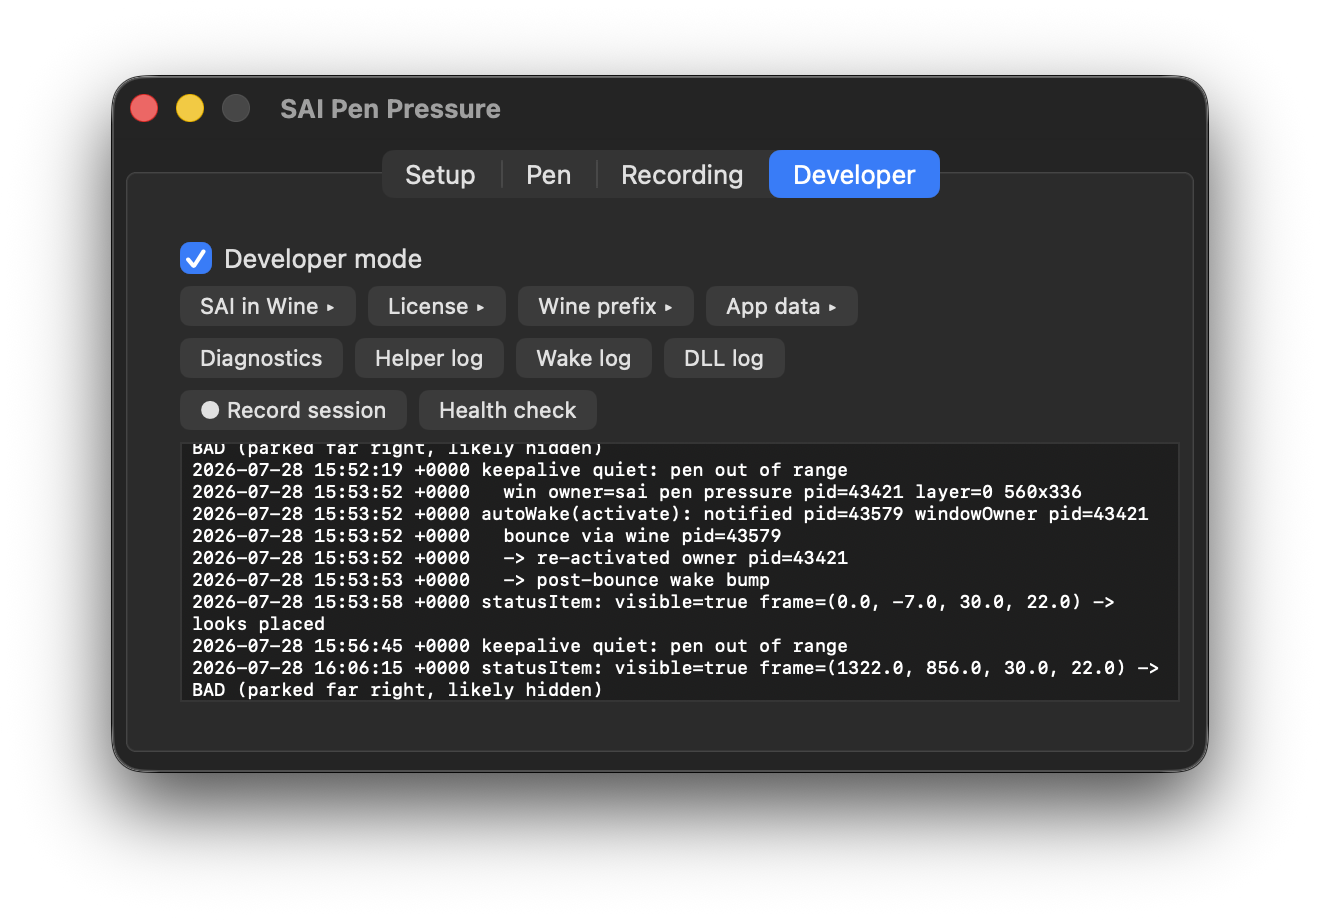
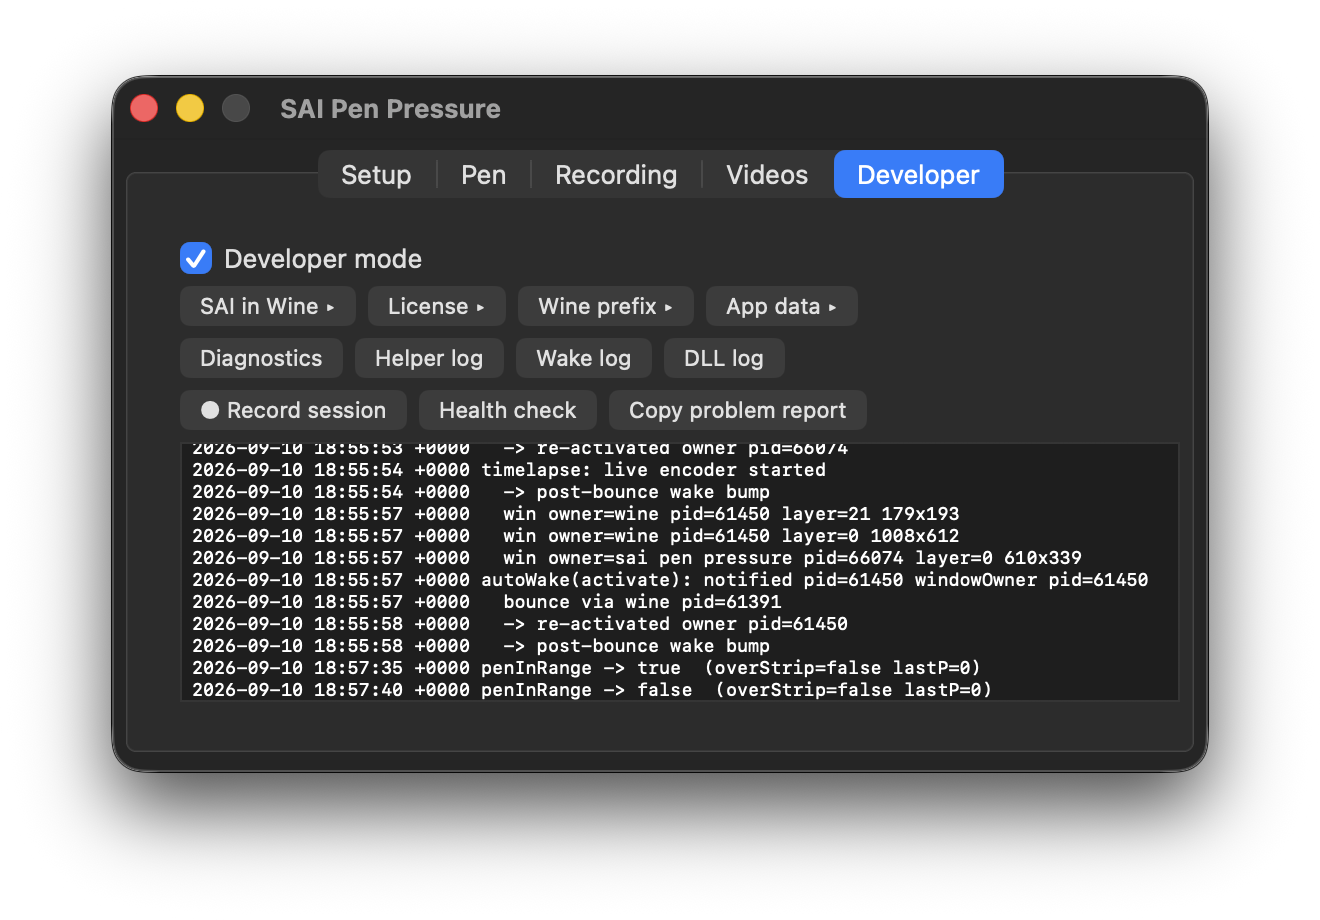
Refresh every screenshot, and admit there are five tabs
All four existing shots were from before this release: Setup predates the
Copy problem report button, Pen predates the second bar, and Developer
predates both the removal of Bridge check and the log being readable at
all (its pane now shows wake and timelapse events instead of a wall of
keepalive lines).

The Videos tab had no screenshot and no mention, and the page said "four
tabs" while the window has had five for some time. Both fixed.

Pen's description now says what the tab is actually for, and the tested
macOS is the version this machine is really running rather than one from
several releases ago.

Closes #32.

diff --git a/README.md b/README.md
@@ -23,22 +23,27 @@ The result: pressure-sensitive strokes that taper with how hard you press.
 
 ## What it looks like
 
-Four tabs, one window.
+Five tabs, one window.
 
 <p align="center">
-  <img src="docs/assets/screenshots/setup.png" alt="Setup tab: status of Wine, SAI, licence and Input Monitoring, with a Launch button" width="49%">
+  <img src="docs/assets/screenshots/setup.png" alt="Setup tab: Wine, SAI, licence and Input Monitoring all ready, with Launch and Copy problem report" width="49%">
   <img src="docs/assets/screenshots/pen.png" alt="Pen tab: pressure levels, pen feel, and a live test showing what is being sent and what is arriving inside Wine" width="49%">
 </p>
 <p align="center">
   <img src="docs/assets/screenshots/recording.png" alt="Recording tab: canvas timelapse settings" width="49%">
-  <img src="docs/assets/screenshots/developer.png" alt="Developer tab: logs, diagnostics and a health check" width="49%">
+  <img src="docs/assets/screenshots/videos.png" alt="Videos tab: one video per drawing, with play, export, rebuild and rename" width="49%">
+</p>
+<p align="center">
+  <img src="docs/assets/screenshots/developer.png" alt="Developer tab: logs, diagnostics, a health check and Copy problem report" width="49%">
 </p>
 
 **Setup** gets SAI running and tells you which of the four prerequisites are missing.
 **Update SAI…** swaps in a newer SAI build without touching your licence, brushes or preferences —
 useful because Ver.2 is a rolling preview.
-**Pen** is pressure levels, pen feel and the response curve.
+**Pen** is pressure levels, pen feel and the response curve, and a live test that shows what is
+being sent alongside what is actually arriving on SAI's side of the bridge.
 **Recording** is the canvas timelapse.
+**Videos** lists one video per drawing, and keeps adding to it when you come back to that drawing.
 **Developer** holds the logs, a diagnostics dump and a health check.
 
 ---
@@ -48,7 +53,7 @@ useful because Ver.2 is a rolling preview.
 > multi-monitor and Mac-style Cmd shortcuts. See [Limitations](#limitations).
 >
 > **Tested configuration:**
-> - Mac: **Apple M3 Pro**, **macOS Tahoe 26.3 (25D125)**
+> - Mac: **Apple M3 Pro**, **macOS Tahoe 26.6.2 (25G83)**
 > - SAI: **PaintTool SAI Ver.2 (64-bit)**
 > - Tablet: **Wacom Intuos BT S (CTL-4100WL)**, over USB and Bluetooth
 > - Displays: **single screen**, and **two screens in mirroring mode**
